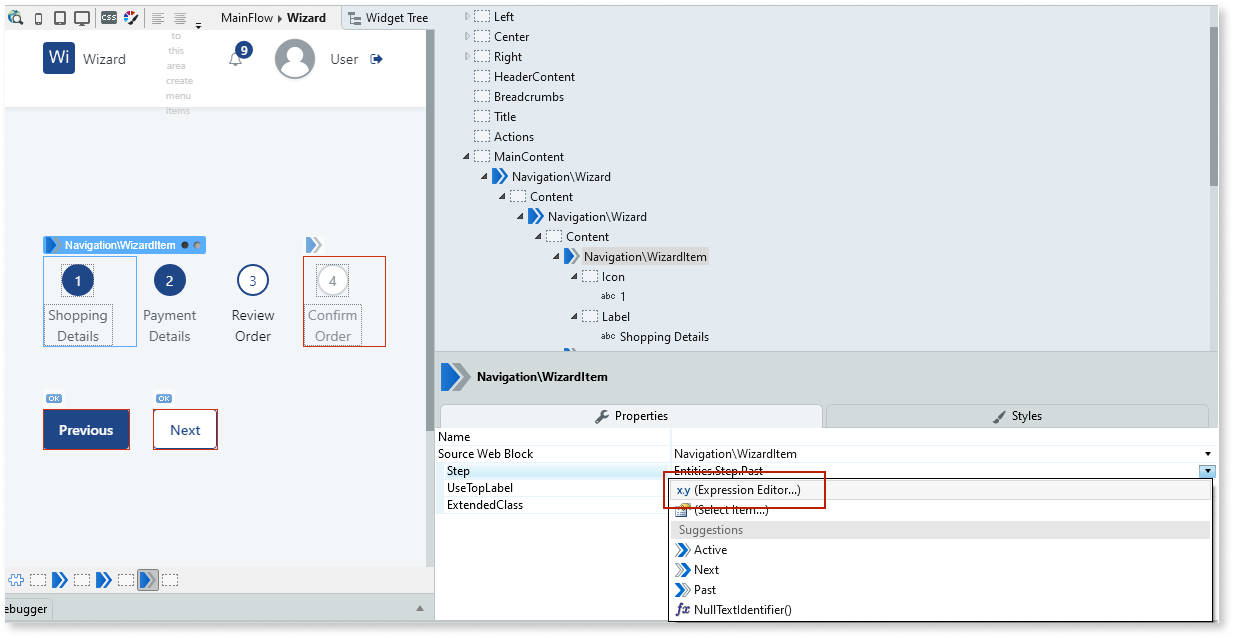
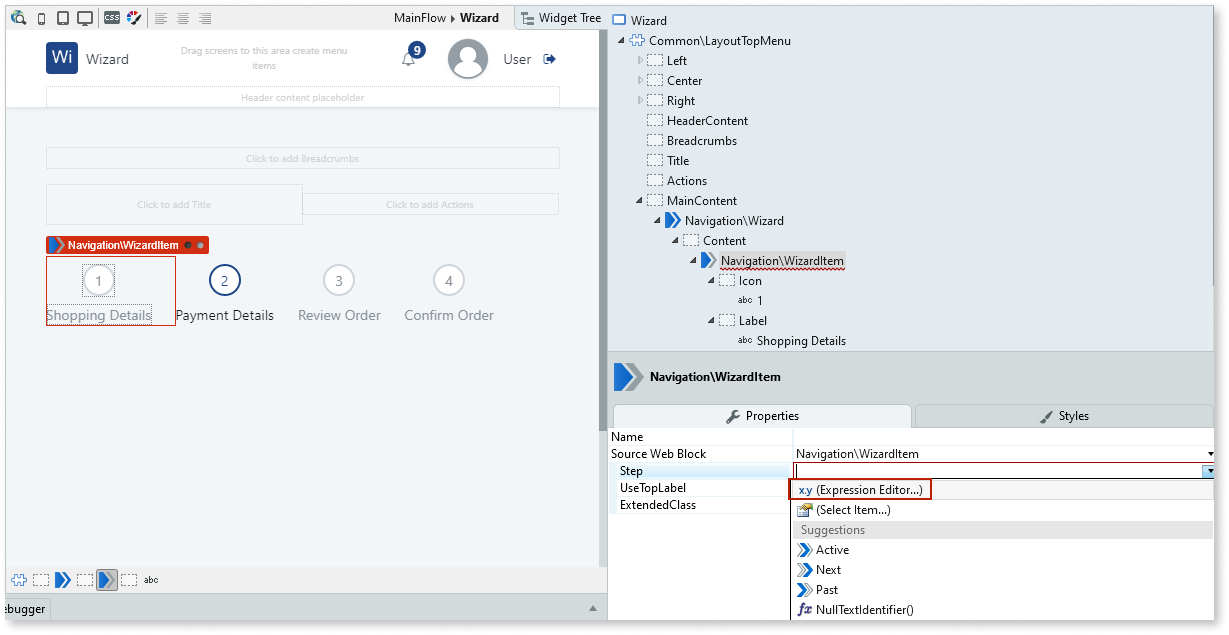
Implemented UI Pattern feedback

diff --git a/src/develop/ui/patterns/web/navigation/wizard.md b/src/develop/ui/patterns/web/navigation/wizard.md
@@ -91,11 +91,11 @@ The following example demonstrates how you can create a four step Wizard with na
            
     ![](images/wizard-image-19.png)
 
-    You have now created a condition that controls what is displayed on screen when the step is acive.
+    You have now created a condition that controls what is displayed on screen when the step is active.
 
-1. Repeat steps 1 and 2 for all of the Wizard Items. Replace **Condition** property with 2, 3, and 4 respectively.
+1. Repeat steps 1 and 2 for all of the Wizard Items. Replace the **Condition** property with 2, 3, and 4 respectively.
 
-1. In the top section (True) of If widgets, create the relevant content for each of the steps.
+1. In the top section (True) of the If widgets, create the relevant content for each of the steps.
 
      The following example shows a Shipping Details step that contains labels and input boxes.
 
@@ -111,31 +111,8 @@ The following example demonstrates how you can create a four step Wizard with na
     |---|---|---|
     | Label | "Previous"| "Next"|
     | Method | Navigate| Navigate|
-    | Destination  | Current Screen |  Current Screen|
-    | CurrentStep | CurrentStep - 1 | CurrentStep + 1
 
-    ![](images/wizard-image-15.png)    
-
-   You have now set the **On Click** behaviour for each of the buttons to:
-
-    * **navigate** to the **current screen**, and to
-    * update the value of the **CurrentStep** input parameter to the next (CurrentStep + 1) or previous step (CurrentStep - 1) in the Wizard.
-
-1. To display the **Previous** button when applicable, select the **Previous** button, right-click, and select **Enclose in If**.
-
-    ![](images/wizard-image-26.png) 
-
-1. On the **Properties** tab, in the **Condition** property, enter the following:
-
-   `CurrentStep > 1`
-
-    ![](images/wizard-image-17.png)
-
-    You have now created a condition that ensures that the user can never go below the number of steps in the wizard.
-       
-1. Repeat steps 3 and 4 for the **Next** button. Enter `CurrentStep < 4` as the **Condition** property. This ensures the **Next** button is only displayed when applicable, and the user can never go above the number of steps in the wizard.    
-
-1. To ensure that all of the information the user enters is passed from step to step, create a [screen action](../../../../logic/action-web.md#screen-actions) by selecting the **Next** button.
+1. To ensure that all of the information the user enters is passed from step to step, create a [screen action](../../../../logic/action-web.md#screen-actions) by selecting the **Next** button. 
 
 1. On the **Properties** tab, from the **Destination** drop-down, select **New Screen Action**.
 
@@ -145,7 +122,23 @@ The following example demonstrates how you can create a four step Wizard with na
 
     ![](images/wizard-image-21.png)
 
-1. Repeat steps 7 and 8 for the **Previous** button, setting the **Variable** property to ``CurrentStep`` and the **Value** property to ``CurrentStep - 1``.
+1. Repeat steps 4 and 5 for the **Previous** button, setting the **Variable** property to ``CurrentStep`` and the **Value** property to ``CurrentStep - 1``.
+
+
+1. To display the **Next** button when applicable, select the **Next** button, right-click, and select **Enclose in If**.
+
+    ![](images/wizard-image-26.png) 
+
+1. On the **Properties** tab, in the **Condition** property, enter the following:
+
+   `CurrentStep < 4`
+
+    ![](images/wizard-image-17.png)
+
+    You have now created a condition that ensures that the user can never go above the number of steps in the wizard.
+       
+1. Repeat steps 7 and 8 for the **Previous** button. Enter `CurrentStep > 1` as the **Condition** property. This ensures the **Previous** button is only displayed when applicable, and the user can never go below the number of steps in the wizard.    
+
 
 After following all of the steps in each of the sections, you can publish the module, and test the Wizard in your app.
 

diff --git a/src/develop/ui/patterns/web/structure/gallery.md b/src/develop/ui/patterns/web/structure/gallery.md
@@ -5,11 +5,13 @@ summary: Gallery enables the users to sequentially browse the content when there
 
 # Gallery
 
-You can use the Gallery UI Pattern to display groups of content as scannable collections. This UI pattern allows users to sequentially browse images, with the notion of a beginning and an end. The Gallery UI pattern can be helpful when you have a large number of cards you need to group into one or more scannable collections. 
+You can use the Gallery UI Pattern to display groups of content. This UI pattern allows users to sequentially browse images, with the notion of a beginning and an end. 
 
 ![](<images/gallery-image-7.png>)
 
 **How to use the Gallery UI Pattern**
+
+The Gallery UI Pattern usually displays dynamic information. In most cases, prior to using this pattern, you will need [to retrieve or update the Data](../../../../../develop/data/intro.md) that contains the information you want to display onscreen. You do this by using an [Action](../../../../../develop/logic/action-web.md). 
 
 1. In Service Studio, in the Toolbox, search for `Gallery`. 
 
@@ -17,8 +19,10 @@ You can use the Gallery UI Pattern to display groups of content as scannable col
 
     ![](<images/gallery-image-8.png>)
 
-1. From the Toolbox, drag the Gallery widget onto your application’s screen.
-    
+1. From the Toolbox, drag the Gallery widget into the Main Content area of your application's screen.
+
+    ![](<images/gallery-image-9.png>)
+
 1. Drag a list or static content into the Gallery widget.
     
     ![](<images/gallery-image-1.png>)
@@ -31,12 +35,12 @@ After following these steps and publishing the module, you can test the pattern 
 
 ## Properties
 
-| **Property** |  **Description** |  **Usage** | 
-|---|---|---|
+| **Property** |  **Description** |
+|---|---|
 | ItemsDesktop (Integer): Optional |  Number of Items per line on a desktop. | 
 | ItemsTablet (Integer): Optional |  Number of Items per line on a tablet. | 
 | ItemsPhone (Integer): Optional|  Number of Items per line on a phone. |
-| ExtendedClass  (Text): Optional |  Adds custom style classes to the block. |  
+| ExtendedClass (Text): Optional | Add custom style classes to the Badge UI Pattern. You define your [custom style classes](../../../../../develop/ui/look-feel/css.md) in your application using CSS. <p>Examples <ul><li>_Blank_ - No custom styles are added (default value)</li><li>_''myclass''_ - adds the myclass style to the Gallery UI styles being applied.<li>_''myclass1'' ''myclass2''_ - adds the _myclass1_ and _myclass2_ styles to the Gallery UI styles being applied.</li></ul></p> |  
 
 
 ## Additional notes

diff --git a/src/develop/ui/patterns/web/utilities/iframe.md b/src/develop/ui/patterns/web/utilities/iframe.md
@@ -5,7 +5,9 @@ summary: Iframe displays information from other apps on the screen in small prev
 
 # Iframe
  
- You can use the Iframe UI Pattern to display information from other apps, on the screen, in bite-size previews. 
+ You can use the Iframe UI Pattern to display information from other apps, on your screen, in bite-size previews. For more information about Iframes, see [HTML Iframes](https://www.w3schools.com/html/html_iframe.asp).
+
+![](<images/iframe-image-8.png>)
 
 **How to use the Iframe UI Pattern**
 
@@ -19,20 +21,24 @@ summary: Iframe displays information from other apps on the screen in small prev
 
     ![](<images/iframe-image-7.png>)
 
-1. On the **Properties** tab, set the relevant properties, for example, the Iframe URL, its title, as well as its width and height.
+1. On the **Properties** tab, set the relevant properties, for example, the Iframe URL, its title, as well as its width and height. In this example, the we use the Wikipedia Website.
+
+    Note: The target destination must have the necessary security permissions that allow you to embed their website in your app.
 
     ![](<images/iframe-image-5.png>)
 
 After following these steps and publishing the module, you can test the pattern in your app.
 
+
+
 ## Properties
 
 | **Property** |  **Description** |
 |---|---|
-| SourceURL (Text): Mandatory   | The target URL that loads on the Iframe.<p>Examples<ul><li> </li><li> </li></ul></p> | 
-| Title (Text): Optional | Iframe title.<p>Examples<ul><li> </li><li> </li></ul></p>|
-| Height (Text): Optional  | Iframe height (default is 100%).<p>Examples<ul><li> </li><li> </li></ul></p>|
-| Width (Text): Optional | Iframe width (default is 100%). <p>Examples<ul><li> </li><li> </li></ul></p>|
+| SourceURL (Text): Mandatory | The target URL that loads on the Iframe.<p>Examples<ul><li>_"https://www.wikipedia.com"_ - Displays the Wikipedia website in your app in a bite-size preview.</ul></p> | 
+| Title (Text): Optional | Iframe title.<p>Examples<ul><li>_"Wikipedia Website"_ - Displays _Wikipedia Website_ as the Iframe title</li></ul></p>|
+| Height (Text): Optional  | Iframe height (default is 100%). <p>Examples<ul><li>_"100%"_ - The iframe height is 100% </li><li>_200_ - The iframe is 200 pixels high </li></ul></p>|
+| Width (Text): Optional | Iframe width (default is 100%). <p>Examples<ul><li> _"100%"_ - The iframe width is 100%</li><li>_200_ - The iframe is 200 pixels wide </li></li></ul></p>|
   
 <!--- ## See also
 * OutSystems UI Live Style Guide: [Iframe](https://outsystemsui.outsystems.com/WebStyleGuidePreview/Iframe.aspx)

diff --git a/src/develop/ui/patterns/web/numbers/badge.md b/src/develop/ui/patterns/web/numbers/badge.md
@@ -67,7 +67,7 @@ After following these steps and publishing the module, you can test the pattern 
 | Shape (Shape Identifier): Optional  | Set the badge shape. Rounded, soft rounded, and sharp are the predefined shapes available for the badge. <p>Examples <ul><li>_Blank_ - displays a rounded badge (default value)</li><li>_Entities.Shape.Sharp_ - displays a square badge</li></ul></p>| 
 | Size (Size Identifier): Optional  | Set the badge size. Small and medium are the predefined sizes available for the badge. <p>Examples <ul><li>_Blank_ - displays a medium sized badge (default value)</li><li>_Entities.Size.Small_ - displays a small sized badge</li></ul></p> |
 | IsLight (Boolean): Optional  | Specify the badge's background color. <p>Examples <ul><li>_Blank_ - A darker hue of the color is applied to the badge and a lighter color to the text (default value)</li><li>_True_ - A brighter hue of the color is applied to the badge and a darker color to the text.</li><li>_False_ - A darker hue of the color is applied to the badge and a lighter color to the text</li></ul></p> |
-| ExtendedClass (Text): Optional |  Add custom style classes to the Badge UI Pattern. You define your [custom style classes](../../../../../develop/ui/look-feel/css.md) in your application using CSS. <p>Examples <ul><li>_Blank_ - No custom styles are added (default value)</li><li>_''myclass''_ - adds the myclass style to the Badge UI styles being applied.<li>_''myclass1'' ''myclass2''_ - adds the _myclass1_ and _myclass2_ styles to the Badge UI styles being applied.</li></ul></p> | 
+| ExtendedClass (Text): Optional | Add custom style classes to the Badge UI Pattern. You define your [custom style classes](../../../../../develop/ui/look-feel/css.md) in your application using CSS. <p>Examples <ul><li>_Blank_ - No custom styles are added (default value)</li><li>_''myclass''_ - adds the myclass style to the Badge UI styles being applied.<li>_''myclass1'' ''myclass2''_ - adds the _myclass1_ and _myclass2_ styles to the Badge UI styles being applied.</li></ul></p> | 
 
 
 ## Additional notes

diff --git a/src/develop/ui/patterns/web/content/lightboximage.md b/src/develop/ui/patterns/web/content/lightboximage.md
@@ -9,7 +9,7 @@ You can use the Lightbox Image UI Pattern to open smaller thumbnail images in fu
 
 ![](<images/lightboxweb-image-11.png>)
 
-**How to use the Lighbox UI Pattern**
+**How to use the Lightbox Image UI Pattern**
 
 1. In Service Studio, in the Toolbox, search for `Lightbox Image`. 
 
@@ -21,11 +21,18 @@ You can use the Lightbox Image UI Pattern to open smaller thumbnail images in fu
    
     ![](<images/lightboximage-image-13.png>)
 
-1. . Select the Image widget, and on the **Properties** tab, set the **Type** property for the Image.
+1. From the Toolbox, drag the [Image widget](../../../../../ref/lang/auto/Class.Image%Widget.final.md) into the Lightbox Image widget. 
 
-    Note: In this example, the property type is set to **Local Image**. You can also choose **External URL** or **Binary Data**.
+1. Select the image you want to display. In this example, we use the default OutSystems UI Images
 
-      ![](<images/lightboximage-image-8.png>)
+
+
+
+Note: In this example, the property type is set to **Local Image**. You can also choose **External URL** or **Binary Data**. 
+
+[Database Image](../../../../../develop/ui/image/display-image.md)
+
+
         
 5. From the **Image** property drop-down, select or import an image.
 

diff --git a/src/develop/ui/patterns/web/utilities/animate.md b/src/develop/ui/patterns/web/utilities/animate.md
@@ -18,8 +18,8 @@ You can use the Animate UI Pattern to create animations within your app. This UI
     ![](<images/animate-image-11.png>)
 
 1. From the Toolbox, drag the Animate widget into the Main Content area of your application's screen.
-    
-    [](<images/animate-image-1.png>)
+
+    ![](<images/animate-image-1.png>)
 
 1. On the **Properties** tab, set the relevant properties, for example, where you want the animation to enter and leave the screen.
 
